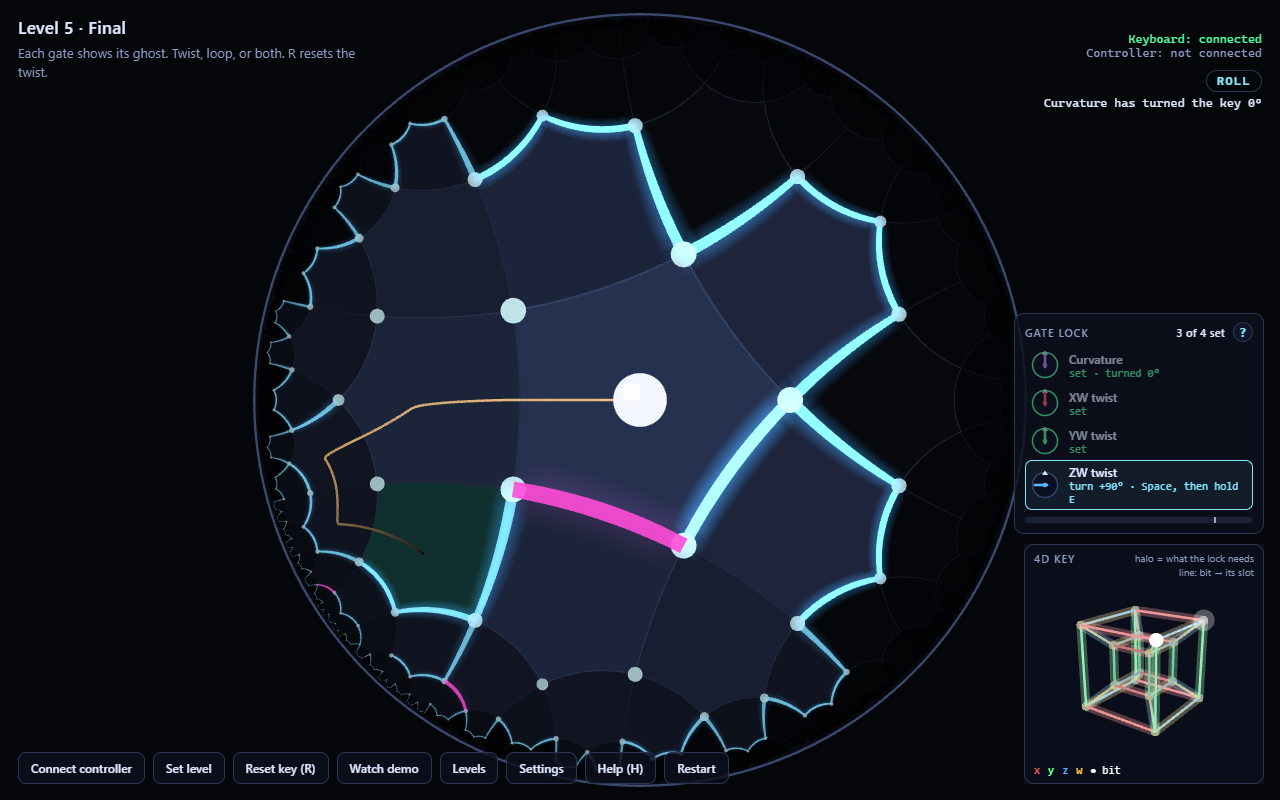
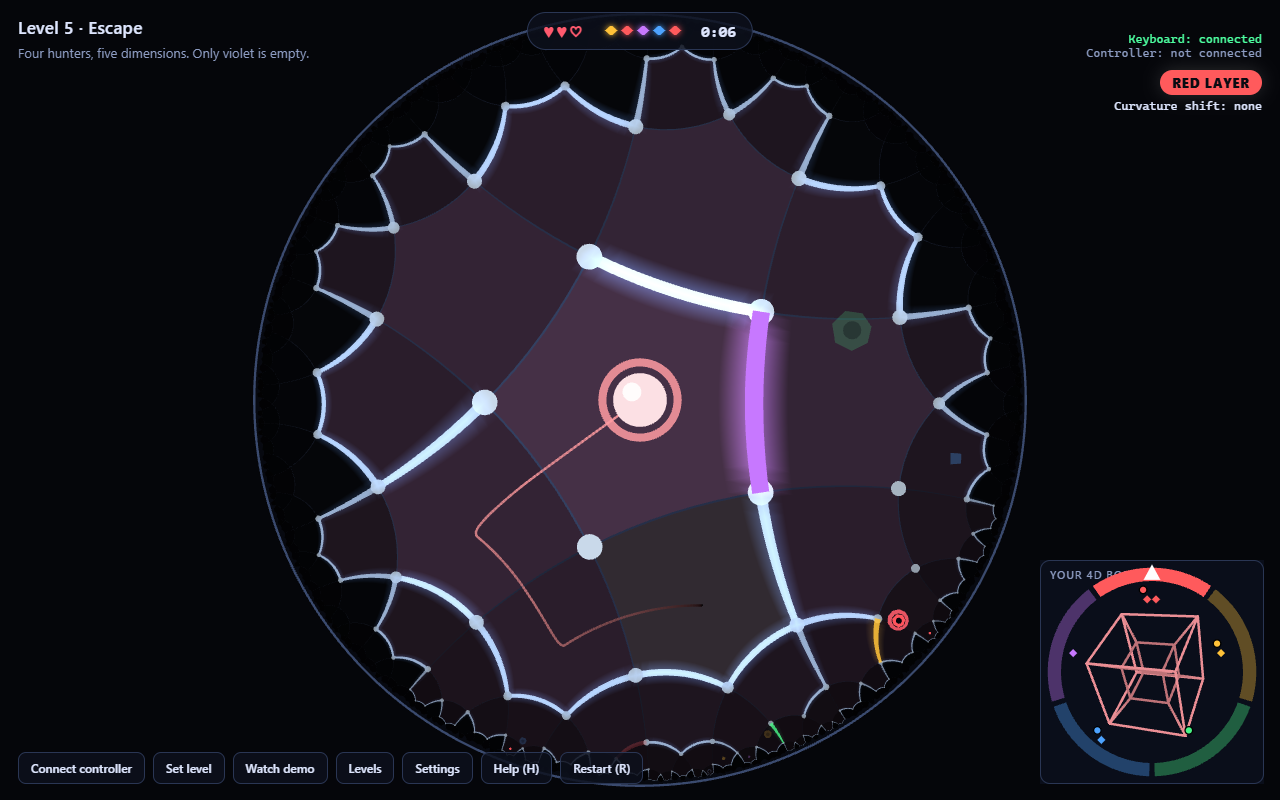
Docs, screenshots and desktop app for Phase Escape
- README rewritten around Phase Escape (rules, controls, levels, how the
  4th dimension is the maze's holonomy group, tests, history)
- MATH.md section 8: the five layers, layer = twist + holonomy mod 5,
  hunters, the 4D body; HARDWARE.md: BOOT steps a layer, dial phasing
- DEMO.md: new two-minute script
- Screenshots: title, doors, hunted, curvature, final
- Desktop app renamed to "Phase Escape"; CLAUDE.md section 13 notes the
  redesign

diff --git a/desktop/main.js b/desktop/main.js
@@ -1,4 +1,4 @@
-// The Key and the Curve, desktop build: the web game in its own window,
+// Phase Escape, desktop build: the web game in its own window,
 // with Web Serial wired up so the ESP32 controller works without a browser.
 
 const { app, BrowserWindow, dialog, session } = require('electron');
@@ -25,7 +25,7 @@ function createWindow() {
     minWidth: 640,
     minHeight: 480,
     backgroundColor: '#05060a',
-    title: 'The Key and the Curve',
+    title: 'Phase Escape',
     icon: path.join(__dirname, 'icon.ico'),
     // The menu (Alt) keeps F11 full screen, reload and zoom.
     autoHideMenuBar: true,

diff --git a/game/src/style.css b/game/src/style.css
@@ -657,3 +657,9 @@ canvas {
     gap: 10px;
   }
 }
+
+/* The phase ring fills the inset, so its label sits just above the frame. */
+.hud-inset .hud-inset-label {
+  top: -20px;
+  left: 2px;
+}

diff --git a/README.md b/README.md
@@ -1,33 +1,48 @@
-# The Key and the Curve
+# Phase Escape
 
-**Roll a marble through a maze in curved space, carrying a four-dimensional key. In curved space, the path you take changes the object you carry.**
+**A chase through a maze in curved space with a fourth dimension. Phase between dimensions to slip through doors and lose the hunters, and let the curvature of space shift you too.**
 
-Built for the StormHacks 2026 challenge *Beyond Euclid: Interactive Experiences in Impossible Geometries*.
+Built for the StormHacks 2026 challenge *Beyond Euclid: Interactive Experiences in Impossible Geometries*, with an optional handheld controller (ESP32 + orientation sensor).
 
-![A loop around a pillar has just turned the key by −72°](docs/screenshots/loop.png)
+![After a lap around a pillar, space itself has shifted the marble from red to violet](docs/screenshots/curvature.png)
 
-## The idea
+## How it plays
 
-The maze is laid out on the hyperbolic plane, tiled by pentagons with four meeting at every corner (the {5,4} tiling), and drawn in the Poincaré disk. The view is always centred on the marble, so rooms near you look big and rooms further away crowd towards the rim. There is far more room out there than a flat map would suggest: in hyperbolic space, area grows exponentially with distance.
+You are a marble in a maze on the **hyperbolic plane**: pentagonal rooms, four meeting at every corner, drawn in the Poincaré disk. Rooms crowd towards the rim because hyperbolic space grows exponentially: there is always more maze ahead.
 
-A tesseract floats with the marble. It is the key. Magenta gates open only when the key is in the right orientation, and you can turn it in two ways:
+The maze also has a **fourth dimension**: five layers, five colours. You exist in one layer at a time, and the whole world takes on its colour.
 
-1. **Twist it through the fourth dimension.** Press Space (or the controller's BOOT button) and turn it in the XW, YW and ZW planes. With the controller, you literally rotate your wrist and the key turns through 4D.
-2. **Let space turn it.** Roll once around a pillar and you come back with the key, and the whole maze around you, turned by exactly 72°. Nothing twisted it; the curvature of space did. This is **holonomy**, and some gates can only be opened this way.
+- **Doors** are open only in their own colour. Match it to pass.
+- **Shards** ◆ can only be grabbed in their own colour.
+- **Hunters** live in one colour. They can only see you, chase you and hit you while you are in their layer; in any other layer they are harmless ghosts. When one closes in, phase out.
+- **Goal:** collect every shard, then roll into the portal. **Lose:** caught three times. Hunters speed up the longer you take. Finish under par with all lives for three stars.
 
-## Play
+**Space itself moves you through the fourth dimension.** Roll once around a pillar and you come back one layer over: clockwise goes up a colour, counter-clockwise goes down. That is **holonomy**. The four rooms around a pillar form a square whose corners are 72° instead of 90°, so a lap turns you by its area, 2·180° − 4·72° = 72°, exactly one of the five layers. In level 3 twisting is jammed, and loops are the only way through.
 
-**Desktop app (Windows).** Build it once, then just double-click it:
+| Input | Action |
+|---|---|
+| Arrows / WASD / drag on the disk | Roll |
+| Q / E, Space | Phase down / up one layer |
+| Controller | Tilt to roll; turn it like a dial to phase; BOOT = phase up |
+| R · T · M · H | Restart · trail · sound · help |
 
-```powershell
-cd desktop
-npm install
-npm run package
-```
+The corner view is your marble's **4D body**: a tesseract's shadow, in your colour, that turns through the XW plane as you phase. The ring around it shows the five layers, where you are, and which layers hold hunters (dots) and shards (diamonds).
 
-This creates `desktop\out\The Key and the Curve-win32-x64\The Key and the Curve.exe`. Copy that whole folder anywhere (or zip it to share); it needs nothing else installed. The app finds the ESP32 controller's port by itself when you click **Connect controller**. For a quick run without packaging, use `npm start` in `desktop`.
+**Watch demo** plays level 3 by itself: it loops the pillar to change colour without touching the controls.
 
-**In the browser:**
+### Levels
+
+1. **Slip:** learn to phase: two coloured doors, two shards.
+2. **Hunted:** a red hunter, and you start red.
+3. **Curvature:** twisting is jammed: loop the pillar to change colour.
+4. **Swarm:** 61 rooms, three hunters in three colours.
+5. **Escape:** four hunters; only violet is empty.
+
+## Run it
+
+**Windows desktop app:** `cd desktop`, `npm install`, `npm run package`, then double-click `desktop\out\Phase Escape-win32-x64\Phase Escape.exe`. Copy the whole folder to share it. It finds the controller's port by itself.
+
+**Browser:**
 
 ```powershell
 cd game
@@ -35,111 +50,63 @@ npm install
 npm run dev
 ```
 
-Open http://localhost:5173 in Chrome or Edge (they have Web Serial, which the controller needs). Everything works with keyboard and mouse; the controller is optional.
-
-| Input | Action |
-|---|---|
-| Arrow keys, WASD, or drag on the disk | Tilt the board to roll the marble |
-| Space · controller BOOT button | Toggle twist mode |
-| Q / A, W / S, E / D | Twist the key in the XW, YW, ZW planes (in twist mode, or with Shift) |
-| Tilt / rotate the controller | Roll the marble / twist the key (in twist mode) |
-| R | Reset the key (undo all twists) |
-| T · M · H | Trail on/off · sound on/off · help |
-
-The inset in the corner shows the key. Edges are coloured by axis (x red, y green, z blue, w gold) and one corner, the key's **bit**, is a white bead.
-
-Each gate is a **4D lock with four dials**, shown in the lock panel above the key when you reach a gate:
-- **Curvature:** only rolling around pillars changes it. The panel says how many laps, and which way.
-- **XW, YW, ZW:** the twist planes. Each dial says how far to turn and which key to hold, for example "turn +48° · hold Q".
-
-When every dial points straight up, the key matches the gate's ghost (the translucent halo behind it, with a dashed line from the bit to its slot) and the gate opens. Get close and let go: the key slides in by itself. The **?** on the lock panel explains it all with pictures. It also appears automatically at your first gate.
-
-**Watch demo** plays level 3 by itself: it rolls straight to the gate (no fit), loops the glowing pillar, and comes back with the key turned.
-
-### Levels
-
-1. **Rolling.** Learn to tilt; notice the rooms shrinking towards the rim.
-2. **First gate.** A 90° twist in the XW plane.
-3. **Curvature turns the key.** Twisting is disabled. The only way through is to loop a pillar counter-clockwise, which turns the key by −72°. The obvious shortcut turns it +72°, the wrong way.
-4. **Combine.** A 4D twist plus a curvature turn, the other way round.
-5. **Final.** Three gates, 61 rooms. The key remembers every twist and every loop.
+Open http://localhost:5173 in Chrome or Edge (they have Web Serial, which the controller needs). Keyboard and mouse are enough to play.
 
 ## The controller (optional)
 
-An ESP32-DevKitC V4 with an Adafruit BNO055 orientation sensor, streaming fused orientation, gravity and gyro rate at 100 Hz over USB. Wiring, calibration, the serial protocol and troubleshooting are in [docs/HARDWARE.md](docs/HARDWARE.md).
+An ESP32-DevKitC V4 with an Adafruit BNO055 orientation sensor, streaming fused orientation, gravity and gyro at 100 Hz over USB. Wiring, calibration and the protocol are in [docs/HARDWARE.md](docs/HARDWARE.md). Click **Connect controller**, hold it the way you want "flat" to be, and click **Set level**. Tilting rolls the marble; turning the controller about that vertical, like a dial, slides you through the layers (tilting barely affects it, so the two don't fight). Sensitivity and directions are under **Settings**.
 
 ```powershell
 cd firmware
 pio run -t upload
-pio device monitor
 ```
-
-In the game, click **Connect controller** and pick the board's port, hold the controller the way you want "flat" to be, and click **Set level**. The BOOT button toggles twist mode. Tilt direction, sensitivity, deadzone and the wrist-to-4D-plane mapping are adjustable under **Settings**.
 
 ## How it works
 
-The full explanation, written for a curious non-expert, is in [docs/MATH.md](docs/MATH.md). In short:
+The full explanation, written for a curious non-expert, is in [docs/MATH.md](docs/MATH.md).
 
-- **Hyperboloid model.** Points are vectors with ⟨p,p⟩ = −1 under the Minkowski product; motions are 3×3 Lorentz matrices. Everything is computed in float64 and re-squared every step, so nothing drifts.
-- **Parallel transport for free.** The marble's velocity lives in its own frame, and it moves by M ← M·T(v·dt). That is exactly parallel transport along the geodesic it rolls on, so curvature rotates its frame without any explicit rotation in the code.
-- **72° per pillar, exactly.** The key is carried along the chain of geodesics joining room centres, so every loop turns it by exactly the area of a geodesic polygon: 72° for each pillar enclosed. A post at every maze vertex keeps "which side of each pillar" well defined.
-- **A key must not be symmetric.** The tesseract's 192 rotational symmetries include every 90° plane rotation, so an unmarked tesseract would "fit" a 90° twist without being turned. The coloured axes and the bead break that symmetry.
-- **Instanced rendering.** Every tile is congruent, so each shape is uploaded once in canonical coordinates. Each instance carries a Lorentz matrix formed on the CPU in float64, and the vertex shader maps it into the disk. The largest level renders in about 5 ms per frame.
-
-## Changes from the original brief
-
-The project brief is in [CLAUDE.md](CLAUDE.md). Two of its ideas turned out not to work as written, and were fixed:
-
-| Brief | Problem | What the game does |
-|---|---|---|
-| The key is transported in the marble's own frame; one lap around a tile turns it 90° | The rotation equals the area enclosed by the marble's actual path, which varies by about a radian depending on how it hugs the walls. That is far too noisy for a ~14° gate tolerance. | The key is carried along geodesics between room centres. Loops then turn it by exact multiples of 72° (one per pillar, the area of the dual {4,5} square). |
-| Gates compare the key up to the tesseract's symmetry group B₄⁺ | B₄⁺ contains every 90° plane rotation, so a 90° twist target is met by an untouched key, and 90° curvature turns are invisible. | The key is marked (coloured axes, one marked corner) and compared without symmetry. A test demonstrates the problem. |
-
-Hardware changes made during the build: a classic ESP32 (DevKitC V4) instead of an ESP32-S3, so serial goes through a USB-UART bridge at 921600 baud; the BOOT button is the only button and toggles twist mode; the BNO055 is initialised with a clock-settling delay that fixed a real start-up failure.
+- **Hyperboloid model.** Points satisfy ⟨p,p⟩ = −1 under the Minkowski product; motions are 3×3 Lorentz matrices, all in float64 and re-squared every step.
+- **Parallel transport for free.** The marble's velocity lives in its own frame and it moves by M ← M·T(v·dt): exactly parallel transport, so curvature turns its frame with no explicit rotation in the code.
+- **Exact holonomy.** Your frame is carried along the geodesics joining room centres, so every loop turns it by exactly the area of a geodesic polygon: 72° per pillar enclosed. A post at every vertex keeps "which side of each pillar" well defined.
+- **The fourth dimension is the holonomy group.** Five layers of 72° each: your layer is your twist plus your holonomy, mod 5. Twisting and looping are two ways of moving along the same circle.
+- **Instanced rendering.** Every tile is congruent, so each shape is uploaded once in canonical coordinates. Each instance carries a Lorentz matrix formed on the CPU in float64, and the shader maps it into the disk. The biggest level renders in about 3 ms per frame.
 
 ## Project layout
 
 ```
-desktop/             Electron wrapper: Windows app with automatic controller port selection
-firmware/            PlatformIO project: ESP32 + BNO055 at 100 Hz
-  src/main.cpp
-  tools/             check_stream.py, calibrate.py, nvs_dump.py
-game/                Vite + TypeScript (strict) + Three.js 0.186.1
-  src/math/          pure, tested maths: lorentz, poincare, geodesic, tiling, four
-  src/game/          marble physics, mazes, transport, levels, gates, autopilot
-  src/input/         keyboard/mouse, Web Serial controller, protocol parsing
-  src/render/        Poincaré disk view, 4D key inset, HUD
-  levels/*.json      the five levels
-  tests/             vitest suites
-docs/                MATH.md, HARDWARE.md, DEMO.md, screenshots
+desktop/       Electron wrapper: Windows app, automatic controller port selection
+firmware/      PlatformIO project: ESP32 + BNO055 at 100 Hz, tools/
+game/
+  src/math/    pure, tested maths: lorentz, poincare, geodesic, tiling, four
+  src/game/    marble, maze, transport (holonomy), phase, hunter, game, levels, autopilot
+  src/input/   keyboard/mouse, Web Serial controller, protocol parsing
+  src/render/  Poincaré disk view, 4D body inset, HUD
+  levels/      the five levels (JSON)
+  tests/       vitest suites
+docs/          MATH.md, HARDWARE.md, DEMO.md, screenshots
 ```
 
 ## Tests
 
-```powershell
-cd game
-npm test
-```
-
-118 tests, including:
-- **Geometry:** Lorentz inverse, invariance of distances, re-orthonormalisation, the disk staying strictly inside the unit circle, Klein straightness, wall segment tests, and the tiling's neighbour structure.
-- **Holonomy:** one lap around a {5,4} tile turns a transported frame by π/2 to within 1e-9, and regular polygons of every shape match −area.
-- **The game's transport:** ±72° per pillar by orientation, 360° around a whole tile, and exact results after 5,000 random steps.
-- **The 4D key:** B₄⁺ has 192 elements, is closed, and is orthogonal with det 1; twist exactness and the fit metric.
-- **Levels:**
-  - a state-space solver proves every level is solvable, and that levels 3 and 4 cannot be solved without looping;
-  - an autopilot plays every level from start to goal with the real physics and gate code, using only tilt and twist input.
-- **Controller:** the parser, run against two seconds recorded from the real controller.
-
-The math layer never imports Three.js; a test enforces that.
+`cd game` then `npm test`. There are 109 tests:
+- **Geometry:** isometries, distances, re-orthonormalisation, the disk models, geodesic segments, and the tiling.
+- **Holonomy:** one lap around a {5,4} tile turns a transported frame by π/2 to within 1e-9; the room-to-room transport gives ±72° per pillar, and 360° around a tile.
+- **Phase Escape:**
+  - The rules: doors, hunters (same layer only), lives, and curvature phasing.
+  - A state-space solver proving every level is solvable, and that level 3 cannot be solved without looping.
+  - Autopilot playthroughs of levels 1 and 3 with the real physics.
+- **4D maths:** B₄⁺, rotations and the tesseract.
+- **Controller:** the protocol parser, run against a real 2 s recording from the controller.
 
 ## Screenshots
 
 | | |
 |---|---|
-| ![Level 1](docs/screenshots/title.png) | ![Twisting at the first gate](docs/screenshots/gate.png) |
-| ![After a pillar loop](docs/screenshots/loop.png) | ![The final level](docs/screenshots/final.png) |
+| ![Level 1](docs/screenshots/title.png) | ![A coloured door](docs/screenshots/doors.png) |
+| ![A red hunter closing in](docs/screenshots/hunted.png) | ![The final level](docs/screenshots/final.png) |
 
-To regenerate them, open the game with `?scene=title`, `gate`, `loop` or `final`.
+Regenerate with `?scene=title|doors|hunted|curvature|final`. The two-minute demo script is in [docs/DEMO.md](docs/DEMO.md).
 
-A two-minute demo script is in [docs/DEMO.md](docs/DEMO.md).
+## History
+
+This started as "The Key and the Curve", a puzzle about matching a tesseract key's 4D orientation ([CLAUDE.md](CLAUDE.md) has the original brief). Playtesting showed it was vague and too hard, with no way to lose, so it became Phase Escape. The hyperbolic engine, the controller and the exact holonomy carried over; the fourth dimension became something you move through, not something you decode.

diff --git a/docs/MATH.md b/docs/MATH.md
@@ -1,4 +1,4 @@
-# The maths behind The Key and the Curve
+# The maths behind Phase Escape
 
 This is the geometry the game runs on, written for someone curious rather than for a specialist. Each section points to the code that implements it and the tests that check it.
 
@@ -93,49 +93,41 @@ Code: `game/src/math/tiling.ts`.
 
 **The fact.** Carry a direction around a closed geodesic polygon by parallel transport. It comes back rotated by the polygon's area: clockwise for a counter-clockwise loop, because the curvature is negative. Once around a single {5,4} tile turns it by 90°. The test `holonomy.test.ts` walks a frame around a tile using only translations and finds −π/2 to within 1e-9. It also checks 20 other regular polygons against their areas.
 
-**What the game does with it.** The marble's own frame rotates by the area its actual path enclosed. That path wobbles: hug the inner wall of a loop or swing wide, and the enclosed area changes by about a radian. A gate with a ~14° tolerance can't depend on that. So the key is carried along a cleaner path: the chain of geodesics joining **room centres**. When the marble crosses into the next room, the key's frame is translated straight from the old centre to the new one (`game/src/game/transport.ts`).
+**What the game does with it.** The marble's own frame rotates by the area its actual path enclosed. That path wobbles: hug the inner wall of a loop or swing wide, and the enclosed area changes by about a radian. A game rule can't depend on that. So your frame is carried along a cleaner path: the chain of geodesics joining **room centres**. When the marble crosses into the next room, the carried frame is translated straight from the old centre to the new one (`game/src/game/transport.ts`).
 
 Any closed walk through rooms is then an exact geodesic polygon. The smallest loop goes through the four rooms around one vertex: a square of the dual {4,5} tiling. Its corners are 360°/5 = 72° instead of 90°, so its area is
 
 > 2·180° − 4·72° = **72°**.
 
-Every loop turns the key by a whole number of 72° steps, one for each pillar it goes around. A lap around a whole tile encloses its five pillars: 5·72° = 360°, back to the start. A post at every vertex stops the marble cutting through one, so "which side of each pillar did you pass" is always well defined. Wiggles inside a room change nothing.
+Every loop turns you by a whole number of 72° steps, one for each pillar it goes around. A lap around a whole tile encloses its five pillars: 5·72° = 360°, back to the start. A post at every vertex stops the marble cutting through one, so "which side of each pillar did you pass" is always well defined. Wiggles inside a room change nothing.
 
 Because every carried frame is a room's canonical frame turned by a multiple of 36°, the code snaps to that grid after each step. Rounding errors can never build up.
 
-**Measuring it.** The maze generator carves a spanning tree: exactly one direct route to every room. The start frame carried along that tree gives each room a reference frame. The key's holonomy is its carried frame's angle relative to the reference: 0° on the direct route, ±72° per pillar looped. The view uses the carried frame as the screen axes, so after a loop the whole maze appears turned by that angle.
+**Measuring it.** The maze generator carves a spanning tree: exactly one direct route to every room. The start frame carried along that tree gives each room a reference frame. Your holonomy is the carried frame's angle relative to the reference: 0° on the direct route, ±72° per pillar looped. The view uses the carried frame as the screen axes, so after a loop the whole maze appears turned by that angle.
 
-## 8. The 4D key
+## 8. The fourth dimension: five layers
 
-Code: `game/src/math/four.ts`, `game/src/render/keyView.ts`.
+Code: `game/src/game/phase.ts`, `game.ts`, `hunter.ts`.
 
-**The tesseract** has 16 vertices (±1, ±1, ±1, ±1) and 32 edges, joining vertices that differ in one coordinate. Its orientation K is a 4×4 rotation matrix, stored in the marble's local frame.
+The maze is a 2D hyperbolic maze times a circle: a phase coordinate w that wraps around. Picture a stack of five copies of the maze, where going up from the top copy brings you back to the bottom. The circle is cut into five layers of 72°, one colour each. Everything coloured lives in one layer:
 
-**Rotating in 4D.** In 3D you rotate about an axis; in 4D you rotate *in a plane*, and there are six: XY, XZ, XW, YZ, YW, ZW. Twist mode drives the three that involve the fourth axis:
+- a **door** is a wall with a gap at one position along w: open only in its own layer;
+- a **shard** sits at one position along w: you can only reach it from its layer;
+- a **hunter** lives in one layer: it can only see and touch you there.
 
-  K ← exp(dt·(ω₁E_xw + ω₂E_yw + ω₃E_zw))·K,
+You only ever see your own slice (the world is tinted its colour); other layers' things show as ghosts.
 
-where ω are the controller's gyro rates (or the Q/A, W/S, E/D keys) and E are the planes' antisymmetric generators. The exponential is approximated by the product of the three plane rotations. That differs by commutator terms of size dt²·ω²/2, about 0.001 rad per frame, and is still an exact rotation. K is re-orthonormalised every frame.
+**Two ways to move along w.** Your phase is
 
-**Drawing it.** 4D → 3D by perspective along w, x′ = x·s/(d − w) with d = 3: corners nearer in w look bigger, which produces the familiar cube-in-a-cube. Then 3D → screen with an ordinary perspective camera. Edges are coloured by axis and brightened by depth in w.
+  layer = (twist steps + holonomy steps) mod 5.
 
-**How curvature reaches the key.** At a gate, the key is compared in the gate's frame:
+Twist steps are what you dial in: keys, the BOOT button, or turning the controller like a dial (the gyro's rate projected onto the "level" vertical; tilting rotates about horizontal axes, so it barely counts). Holonomy steps come from §7: every lap around a pillar turns your carried frame by exactly 72°, which is exactly one layer. That is not a coincidence we arranged: in the {5,4} tiling, the turn per pillar (72°) divides 360° into exactly five steps, so the five layers are the holonomy group of the maze. Looping clockwise moves you up a layer and counter-clockwise down, and five laps bring you all the way round.
 
-  K_eff = R_xy(θ)·K,
+**Hunters** move like the marble does, room by room, along the shortest route through the maze (they drift through doors, but not through walls). They only chase when they can see you, that is, when you share their layer; otherwise they patrol. Rooms are convex, so a straight move to the next doorway never cuts through a wall.
 
-where θ is the holonomy (§7) measured on the gate's side, and R_xy rotates the key's XY plane. Looping a pillar changes θ by 72°, which turns the key relative to the gate.
+**The 4D body.** The inset shows a tesseract (16 vertices (±1, ±1, ±1, ±1), 32 edges) projected 4D → 3D by perspective along w, x′ = x·s/(d − w) with d = 3, then drawn with a 3D camera. It is rotated in the XW plane by your phase angle, so twisting visibly turns it through the fourth dimension and a pillar lap jumps it a fifth of a turn. Rotations in 4D happen in planes, not about axes; XW turns the x direction into w, which is why the inner and outer cubes appear to swap through each other.
 
-**A key must not be symmetric.** The obvious fit test, min over symmetries S of ‖K_eff − S·target‖, uses the tesseract's rotation group B₄⁺: the 192 signed permutation matrices with determinant +1. But B₄⁺ contains every 90° plane rotation. So an untouched tesseract already "fits" a 90° XW target, and a 90° curvature turn would be invisible (`four.test.ts` demonstrates both). Real keys have teeth for a reason. Ours has coloured axes and one marked corner (the white bead), which leaves only the identity as a symmetry. The fit is simply
-
-  d = ‖K_eff − target‖_F.
-
-For a single-plane mismatch of angle α, d = 2√2·|sin(α/2)|. The gate starts glowing within 2τ, and within τ = 0.35 (about 14°) the key glides onto the exact orientation and the gate opens. If the player gets within 2τ and stops twisting, the key also drifts the rest of the way (the settle assist).
-
-**Telling the player which way to turn.** Every gate target is written as twists in the W planes followed by a turn in XY, so the lock splits into four dials: curvature (XY) and the XW, YW, ZW twists (`game/src/game/lock.ts`). For each twist plane, the best angle to turn has a closed form. ‖R(θ)·K − T‖² = const − 2·tr(R(θ)·M) with M = K·Tᵀ, and for a rotation in plane (i, j), tr(R(θ)·M) = rest + cos θ·(M_ii + M_jj) + sin θ·(M_ij − M_ji). So the best twist is
-
-  θ* = atan2(M_ij − M_ji, M_ii + M_jj),
-
-which is exactly the remaining angle when the mismatch lies in that plane. That is what each dial shows, and the panel highlights the plane with the most to go. For curvature, the dial shows the difference between the holonomy needed and the holonomy carried, in 72° laps.
+**Why it is fair.** A breadth-first search over (room, holonomy step, twist step, shards held) proves every level can be finished, and shows level 3 (twisting jammed) cannot be finished without looping (`tests/levels.test.ts`). An autopilot also plays levels 1 and 3 with the real physics.
 
 ## 9. Numerical care, in one table
 
@@ -143,8 +135,7 @@ which is exactly the remaining angle when the mismatch lies in that plane. That 
 |---|---|---|
 | Frames composed every step | Drift off the hyperboloid | Minkowski Gram–Schmidt every step; position column fixed first |
 | Distances between nearby points | acosh loses digits near 1 | d = 2·asinh(½√⟨p−q, p−q⟩) |
-| Carried key frame | Rounding over a long game | Snapped to the exact 36° grid after every room |
+| Carried frame | Rounding over a long game | Snapped to the exact 36° grid after every room |
 | GPU in float32 | Cancellation far from the origin | Canonical shapes plus per-instance matrices formed in float64 |
 | Disk rim | tanh(d/2) rounds to 1 beyond ~37 units | Clamp to 1 − 4ε (and cull beyond 5.5 units anyway) |
-| Key orientation | Drift from many twist steps | Row Gram–Schmidt every frame; det kept at +1 |
 | Physics step | Tunnelling through walls | 240 Hz substeps and a speed cap: < 0.015 units per step |

diff --git a/docs/DEMO.md b/docs/DEMO.md
@@ -1,18 +1,15 @@
 # Two-minute demo script
 
-Setup: the game open full-screen in Chrome (`npm run dev`), the controller connected and calibrated (cal reads S3 G3 A3 M3), and **Set level** pressed while holding it flat. Sound on. Have **Watch demo** ready as a fallback if the controller misbehaves.
+Setup: the desktop app full-screen, controller connected and calibrated, **Set level** pressed while holding it flat, sound on. **Watch demo** is the fallback if the controller misbehaves.
 
 | Time | On screen | Say |
 |---|---|---|
-| 0:00 | Level 1 intro card | "This is a marble maze in hyperbolic space, the geometry where triangles add up to less than 180° and space grows exponentially." |
-| 0:10 | Tilt the controller; the marble rolls | "I'm tilting a real controller: an ESP32 with an orientation sensor, streaming at 100 Hz. The view stays centred on the marble. Rooms near the rim look tiny, but they're all the same size: there's just exponentially more of them." |
-| 0:30 | Level 2: reach the magenta gate; the ghost appears in the corner | "The gate needs the key, this tesseract, in a specific orientation. That's the ghost behind it." |
-| 0:40 | Press BOOT; violet ring; rotate wrist; the XW dial swings up; GATE OPEN | "The gate is a 4D lock with four dials: three twist planes and curvature. BOOT switches to twist mode, and my wrist rotates the key through the fourth dimension. When every dial points up, the key matches and it slides in." |
-| 0:55 | Level 3 (Levels → 3); roll straight to the gate | "Here twisting is disabled, and the gate wants the key turned 72°. The direct route doesn't do it." |
-| 1:05 | Roll back and loop the glowing pillar counter-clockwise; trail and −72° label; the maze turns | "But if I roll once around this pillar... the key comes back turned by 72°, and so does the whole maze. Nothing twisted it. The curvature of space did." |
-| 1:20 | The aha card with the formula | "The four rooms around a pillar make a square whose corners are 72°, not 90°. Go around it and you pick up exactly its area: 2·180° − 4·72° = 72°. That's holonomy. In curved space, the path you take changes the object you carry." |
-| 1:35 | Gate opens; roll to the goal | "Go round the other way and it turns the other way. Some gates need both: a 4D twist and a loop." |
-| 1:45 | Level 5 overview, or the README screenshot | "Under the hood: exact Lorentz-matrix geometry in float64, instanced GPU rendering at 60 FPS, and 118 tests, including an autopilot that plays every level to the end with the real physics." |
-| 1:55 | Title | "The Key and the Curve." |
-
-If time is short, skip level 1 and start at level 2.
+| 0:00 | Level 1 card | "Phase Escape: a chase through a maze in curved space, with a fourth dimension." |
+| 0:08 | Tilt the controller; the marble rolls | "I'm tilting a real controller, an ESP32 with an orientation sensor at 100 Hz. This is the hyperbolic plane: rooms crowd towards the edge because space grows exponentially." |
+| 0:22 | A gold door blocks the way; turn the controller like a dial; the world turns gold; roll through | "The maze has a fourth dimension: five layers, five colours. Doors only open in their own colour. Turning the controller like a dial slides me through the fourth dimension, and the whole world changes colour." |
+| 0:40 | Level 2: a red hunter rushes in; danger glow; phase to green; it becomes a ghost | "Hunters live in one layer. This one is red, and so am I. Phase out, and it can't see me anymore." |
+| 0:58 | Level 3 (Levels → 3); twist jammed; roll a lap around the glowing pillar; the world turns violet; the −72° label | "Here twisting is jammed. But watch: I roll once around this pillar, without touching the dial, and I come back violet. Space moved me through the fourth dimension." |
+| 1:15 | The holonomy card with the formula | "The four rooms around a pillar make a square with 72° corners, not 90°. A lap turns you by its area: 2·180° − 4·72° = 72°, exactly one of five layers. That's holonomy: in curved space, your path changes you." |
+| 1:35 | Grab a shard, the portal opens, roll in; stars | "Collect the shards, reach the portal, don't get caught three times." |
+| 1:45 | Level 5 overview, or the README | "Under the hood: exact Lorentz-matrix geometry in float64, GPU-instanced rendering at 60 FPS, and 109 tests, including a solver that proves every level is beatable." |
+| 1:55 | Title | "Phase Escape." |

diff --git a/docs/HARDWARE.md b/docs/HARDWARE.md
@@ -26,11 +26,10 @@ Everything connects to **one header**: the side with the 5V (or VIN) and GND pin
 
 ### The button
 
-There is no extra button to wire: the DevKitC's **BOOT** button (GPIO0) is the trigger. **Press once to enter 4D twist mode, press again to leave it.** In twist mode, rotating the controller turns the key one plane at a time: whichever wrist axis is rotating fastest wins, and small wobbles (under about 17°/s) are ignored. This can be switched off under Settings. The firmware only reports whether BOOT is held (debounced, 20 ms); the game turns presses into the on/off toggle, so it can also switch twist mode off itself (for example on levels where twisting is disabled).
+There is no extra button to wire: the DevKitC's **BOOT** button (GPIO0) is the only button. In Phase Escape each press **moves you up one layer** of the fourth dimension. The firmware only reports whether BOOT is held (debounced, 20 ms); the game counts presses. Turning the whole controller like a dial (about the vertical you captured with Set level) also slides you through the layers.
 
 Don't hold BOOT while plugging the board in or pressing EN: GPIO0 is sampled at reset, and holding it low starts the bootloader instead of the firmware. Pressing it at any other time is safe.
 
-Resetting the key is done from the keyboard (R) or the on-screen button.
 
 ### Powering the BNO055 from 5V/VIN
 
@@ -96,7 +95,7 @@ $,qw,qx,qy,qz,gx,gy,gz,wx,wy,wz,cal,btn
 | `gx..gz` | Gravity vector in the sensor frame, m/s² (0.01 resolution). |
 | `wx..wz` | Gyro angular velocity, **rad/s**. |
 | `cal` | Calibration status `sys*1000 + gyr*100 + acc*10 + mag`, each 0–3. It is a plain integer, so leading zeros are dropped: `300` means sys 0, gyr 3, acc 0, mag 0. `3333` is fully calibrated. |
-| `btn` | 1 while BOOT is held, else 0 (bit1 is reserved and always 0). The game toggles twist mode on each press. |
+| `btn` | 1 while BOOT is held, else 0 (bit1 is reserved and always 0). The game moves you up one layer on each press. |
 
 **Gyro units.** The BNO055 powers up reporting deg/s, and the Adafruit library never changes that register; its `getVector(VECTOR_GYROSCOPE)` divides the raw value by 16 LSB per deg/s. The firmware multiplies by π/180, so the stream is in rad/s.
 

diff --git a/CLAUDE.md b/CLAUDE.md
@@ -326,3 +326,7 @@ These supersede the parts of sections 6–8 they mention. Details and reasoning 
 - **Levels** were designed with measured loop holonomies; `tests/levels.test.ts` has a state-space solver and autopilot playthroughs (`game/src/game/autopilot.ts`). Run them after any level edit. Tile indices are stable as long as `WORLD_RADIUS` and the generation order are unchanged.
 - **4D lock guidance.** Gate targets must list W-plane twists first and the XY turn last (tested): the lock panel (`render/lockPanel.ts`, `game/lock.ts`) splits each gate into a curvature dial and XW/YW/ZW dials using the closed-form best twist angle. A settle assist pulls the key in when it is within 2τ and the player stops twisting. The controller twists one plane at a time (strongest axis, 0.3 rad/s deadband). An explainer card appears at the first gate.
 - **Dev hooks** (dev server only): `__start(i)`, `__teleport(room)`, `__drive([rooms])`, `__advance(s)`, `__bench(n)`, `__demo()`. `?scene=title|gate|loop|final` sets up the README screenshots (capture with headless Chrome).
+
+## 13. Phase Escape redesign (supersedes the key/gate gameplay)
+
+The game is now **Phase Escape** (see README and `HANDOFF.md`): collect shards, reach the portal, three lives, hunters. The 4th dimension is five colour layers (72° each); doors/shards/hunters live in one layer; layer = (twist steps + holonomy steps) mod 5, so one pillar lap = one layer. Inputs: `InputSource.phaseSteps()` / `phaseRate()` (Q/E/Space, BOOT, controller yaw about the level vertical). The tesseract is now a decorative "4D body" turned in XW by your phase. Gates, the lock panel and tesseract matching were removed. Levels in `game/levels/*-slip|hunted|curvature|swarm|escape.json`; solvability and autopilot tests in `tests/levels.test.ts`.
